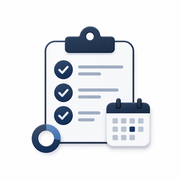
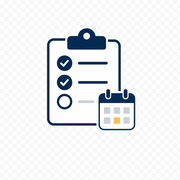
Add files via upload

Changed region(s): [[0.1667, 0.1389, 0.8611, 0.8611]]

diff --git a/index.html b/index.html
@@ -5,16 +5,16 @@
   <meta name="viewport" content="width=device-width,initial-scale=1" />
   <title>タスク共有</title>
   <meta name="description" content="システム担当2名向けのリアルタイムタスク共有サイト" />
-  <link rel="icon" type="image/png" sizes="32x32" href="assets/favicon-32.png?v=4" />
-  <link rel="apple-touch-icon" href="assets/apple-touch-icon.png?v=4" />
-  <link rel="stylesheet" href="style.css?v=4" />
+  <link rel="icon" type="image/png" sizes="32x32" href="assets/favicon-32.png?v=5" />
+  <link rel="apple-touch-icon" href="assets/apple-touch-icon.png?v=5" />
+  <link rel="stylesheet" href="style.css?v=5" />
   <script src="config.js?v=1"></script>
 </head>
 <body>
   <div class="app-shell">
     <aside class="sidebar">
       <div class="brand">
-        <div class="brand-mark"><img src="assets/brand.png?v=3" alt="" /></div>
+        <div class="brand-mark"><img src="assets/brand.png?v=5" alt="" /></div>
         <div>
           <p>SYSTEM TASK</p>
           <h1>タスク共有</h1>
@@ -22,10 +22,10 @@
       </div>
 
       <nav class="nav">
-        <button class="nav-item active" data-view="board" type="button"><span class="nav-icon"><img src="assets/nav-board.png?v=3" alt="" /></span>ボード</button>
-        <button class="nav-item" data-view="list" type="button"><span class="nav-icon"><img src="assets/nav-list.png?v=3" alt="" /></span>一覧</button>
-        <button class="nav-item" data-view="mine" type="button"><span class="nav-icon"><img src="assets/summary-mine.png?v=3" alt="" /></span>自分の担当</button>
-        <button class="nav-item" data-view="done" type="button"><span class="nav-icon"><img src="assets/nav-done.png?v=3" alt="" /></span>完了</button>
+        <button class="nav-item active" data-view="board" type="button"><span class="nav-icon"><img src="assets/nav-board.png?v=5" alt="" /></span>ボード</button>
+        <button class="nav-item" data-view="list" type="button"><span class="nav-icon"><img src="assets/nav-list.png?v=5" alt="" /></span>一覧</button>
+        <button class="nav-item" data-view="mine" type="button"><span class="nav-icon"><img src="assets/summary-mine.png?v=5" alt="" /></span>自分の担当</button>
+        <button class="nav-item" data-view="done" type="button"><span class="nav-icon"><img src="assets/nav-done.png?v=5" alt="" /></span>完了</button>
       </nav>
 
       <section class="side-card user-card">
@@ -99,19 +99,19 @@
 
       <section class="summary-grid">
         <article class="summary-card">
-          <span class="summary-icon icon-image blue"><img src="assets/summary-open.png?v=3" alt="" /></span>
+          <span class="summary-icon icon-image blue"><img src="assets/summary-open.png?v=5" alt="" /></span>
           <div><p>未完了</p><strong id="openCount">0件</strong></div>
         </article>
         <article class="summary-card">
-          <span class="summary-icon icon-image red"><img src="assets/summary-overdue.png?v=3" alt="" /></span>
+          <span class="summary-icon icon-image red"><img src="assets/summary-overdue.png?v=5" alt="" /></span>
           <div><p>期限超過</p><strong id="overdueCount">0件</strong></div>
         </article>
         <article class="summary-card">
-          <span class="summary-icon icon-image amber"><img src="assets/summary-today.png?v=3" alt="" /></span>
+          <span class="summary-icon icon-image amber"><img src="assets/summary-today.png?v=5" alt="" /></span>
           <div><p>今日まで</p><strong id="todayCount">0件</strong></div>
         </article>
         <article class="summary-card">
-          <span class="summary-icon icon-image green"><img src="assets/summary-mine.png?v=3" alt="" /></span>
+          <span class="summary-icon icon-image green"><img src="assets/summary-mine.png?v=5" alt="" /></span>
           <div><p>自分の担当</p><strong id="myCount">0件</strong></div>
         </article>
       </section>
@@ -283,6 +283,6 @@
 
   <div id="toast" class="toast" hidden></div>
 
-  <script type="module" src="app.js?v=4"></script>
+  <script type="module" src="app.js?v=5"></script>
 </body>
 </html>

diff --git a/style.css b/style.css
@@ -152,3 +152,64 @@
     max-width: 100% !important;
   }
 }
+
+
+/* v5: 完了ボタン強調・左メニューアイコン拡大・ブランドアイコン更新 */
+.complete-button {
+  border: 0;
+  border-radius: 16px;
+  padding: 13px 18px;
+  color: #fff;
+  background: linear-gradient(145deg, #5bd17a, #24a65a);
+  font-weight: 1000;
+  cursor: pointer;
+  box-shadow:
+    0 14px 28px rgba(36, 166, 90, .26),
+    inset 0 1px 0 rgba(255,255,255,.22);
+}
+
+.complete-button:hover {
+  transform: translateY(-1px);
+  box-shadow:
+    0 18px 34px rgba(36, 166, 90, .32),
+    inset 0 1px 0 rgba(255,255,255,.25);
+}
+
+.detail-actions .complete-button {
+  min-width: 128px;
+  font-size: 15px;
+}
+
+.nav-icon {
+  width: 34px !important;
+  height: 34px !important;
+  flex: 0 0 34px !important;
+  border-radius: 12px !important;
+}
+
+.nav-item {
+  padding: 13px 14px !important;
+  gap: 12px !important;
+  font-size: 16px !important;
+}
+
+.nav-item.active,
+.nav-item:hover {
+  box-shadow:
+    0 14px 28px rgba(255,187,76,.24),
+    inset 0 0 0 2px rgba(255,255,255,.48);
+}
+
+.brand-mark img {
+  width: 100% !important;
+  height: 100% !important;
+  object-fit: cover !important;
+}
+
+@media (max-width: 860px) {
+  .nav-icon {
+    width: 32px !important;
+    height: 32px !important;
+    flex-basis: 32px !important;
+  }
+}

diff --git a/app.js b/app.js
@@ -355,7 +355,7 @@ function renderDetail() {
     <div class="task-meta">${statusBadge(task.status)}${priorityBadge(task.priority)}${categoryBadge(task.category)}${task.pinned ? `<span class="badge priority-中">固定</span>` : ""}</div>
     <div class="detail-actions">
       <button class="primary-button" data-action="edit">編集する</button>
-      ${task.status !== "完了" ? `<button class="ghost-button" data-action="done">完了にする</button>` : `<button class="ghost-button" data-action="reopen">未着手に戻す</button>`}
+      ${task.status !== "完了" ? `<button class="complete-button" data-action="done">✓ 完了にする</button>` : `<button class="ghost-button" data-action="reopen">未着手に戻す</button>`}
     </div>
 
     <section class="detail-section">

diff --git a/README.md b/README.md
@@ -109,3 +109,12 @@ rooms/{roomId}/tasks/{taskId}
 - 右側の空きスペースを活かす配置に変更しています。
 - 画面幅が狭い場合は、共有ルーム表示がタイトル下へ自然に回り込むようにしています。
 - `style.css?v=4` / `app.js?v=4` にしてブラウザキャッシュを回避しています。
+
+
+## v5 修正内容
+
+- タスク詳細の「完了にする」ボタンを緑の強調ボタンへ変更しました。
+- 左メニューのアイコン画像を少し大きくしました。
+- 左上のブランドアイコンを、ユーザー提供の3枚目アイコンへ変更しました。
+- favicon / apple-touch-icon も同じ3枚目アイコンへ差し替えました。
+- `style.css?v=5` / `app.js?v=5` / 各アイコン画像 `?v=5` にしてブラウザキャッシュを回避しています。
